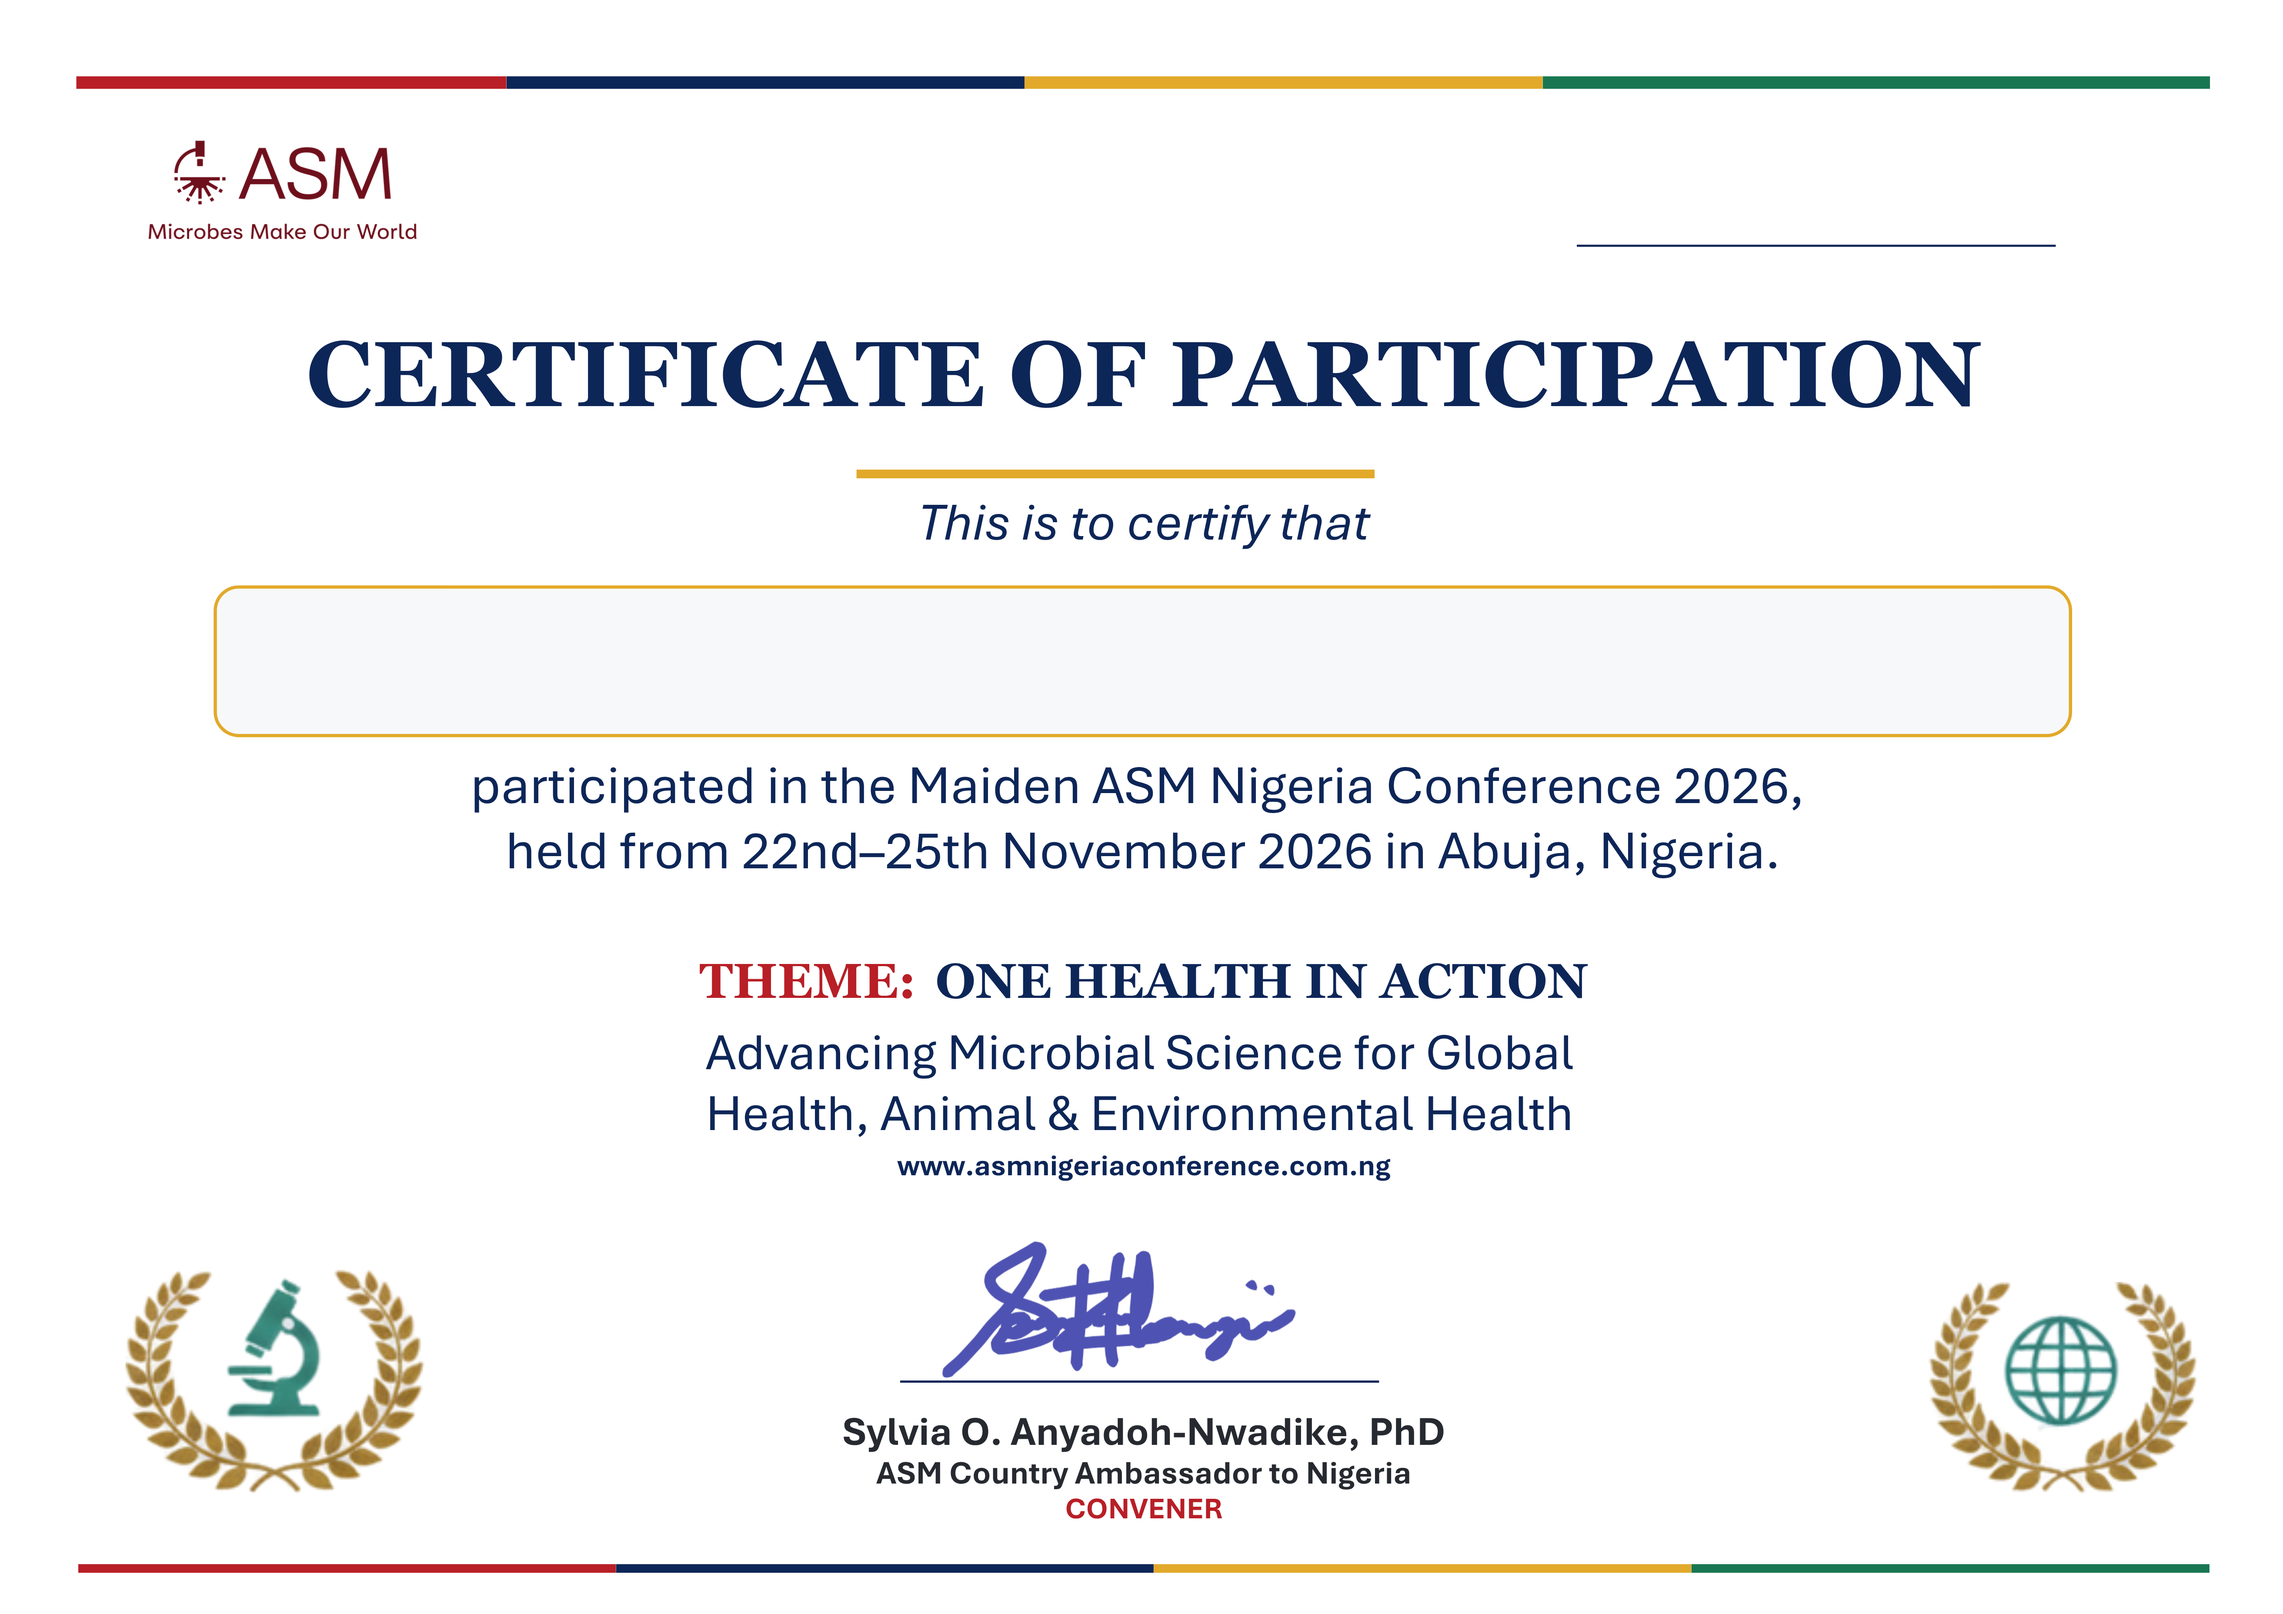
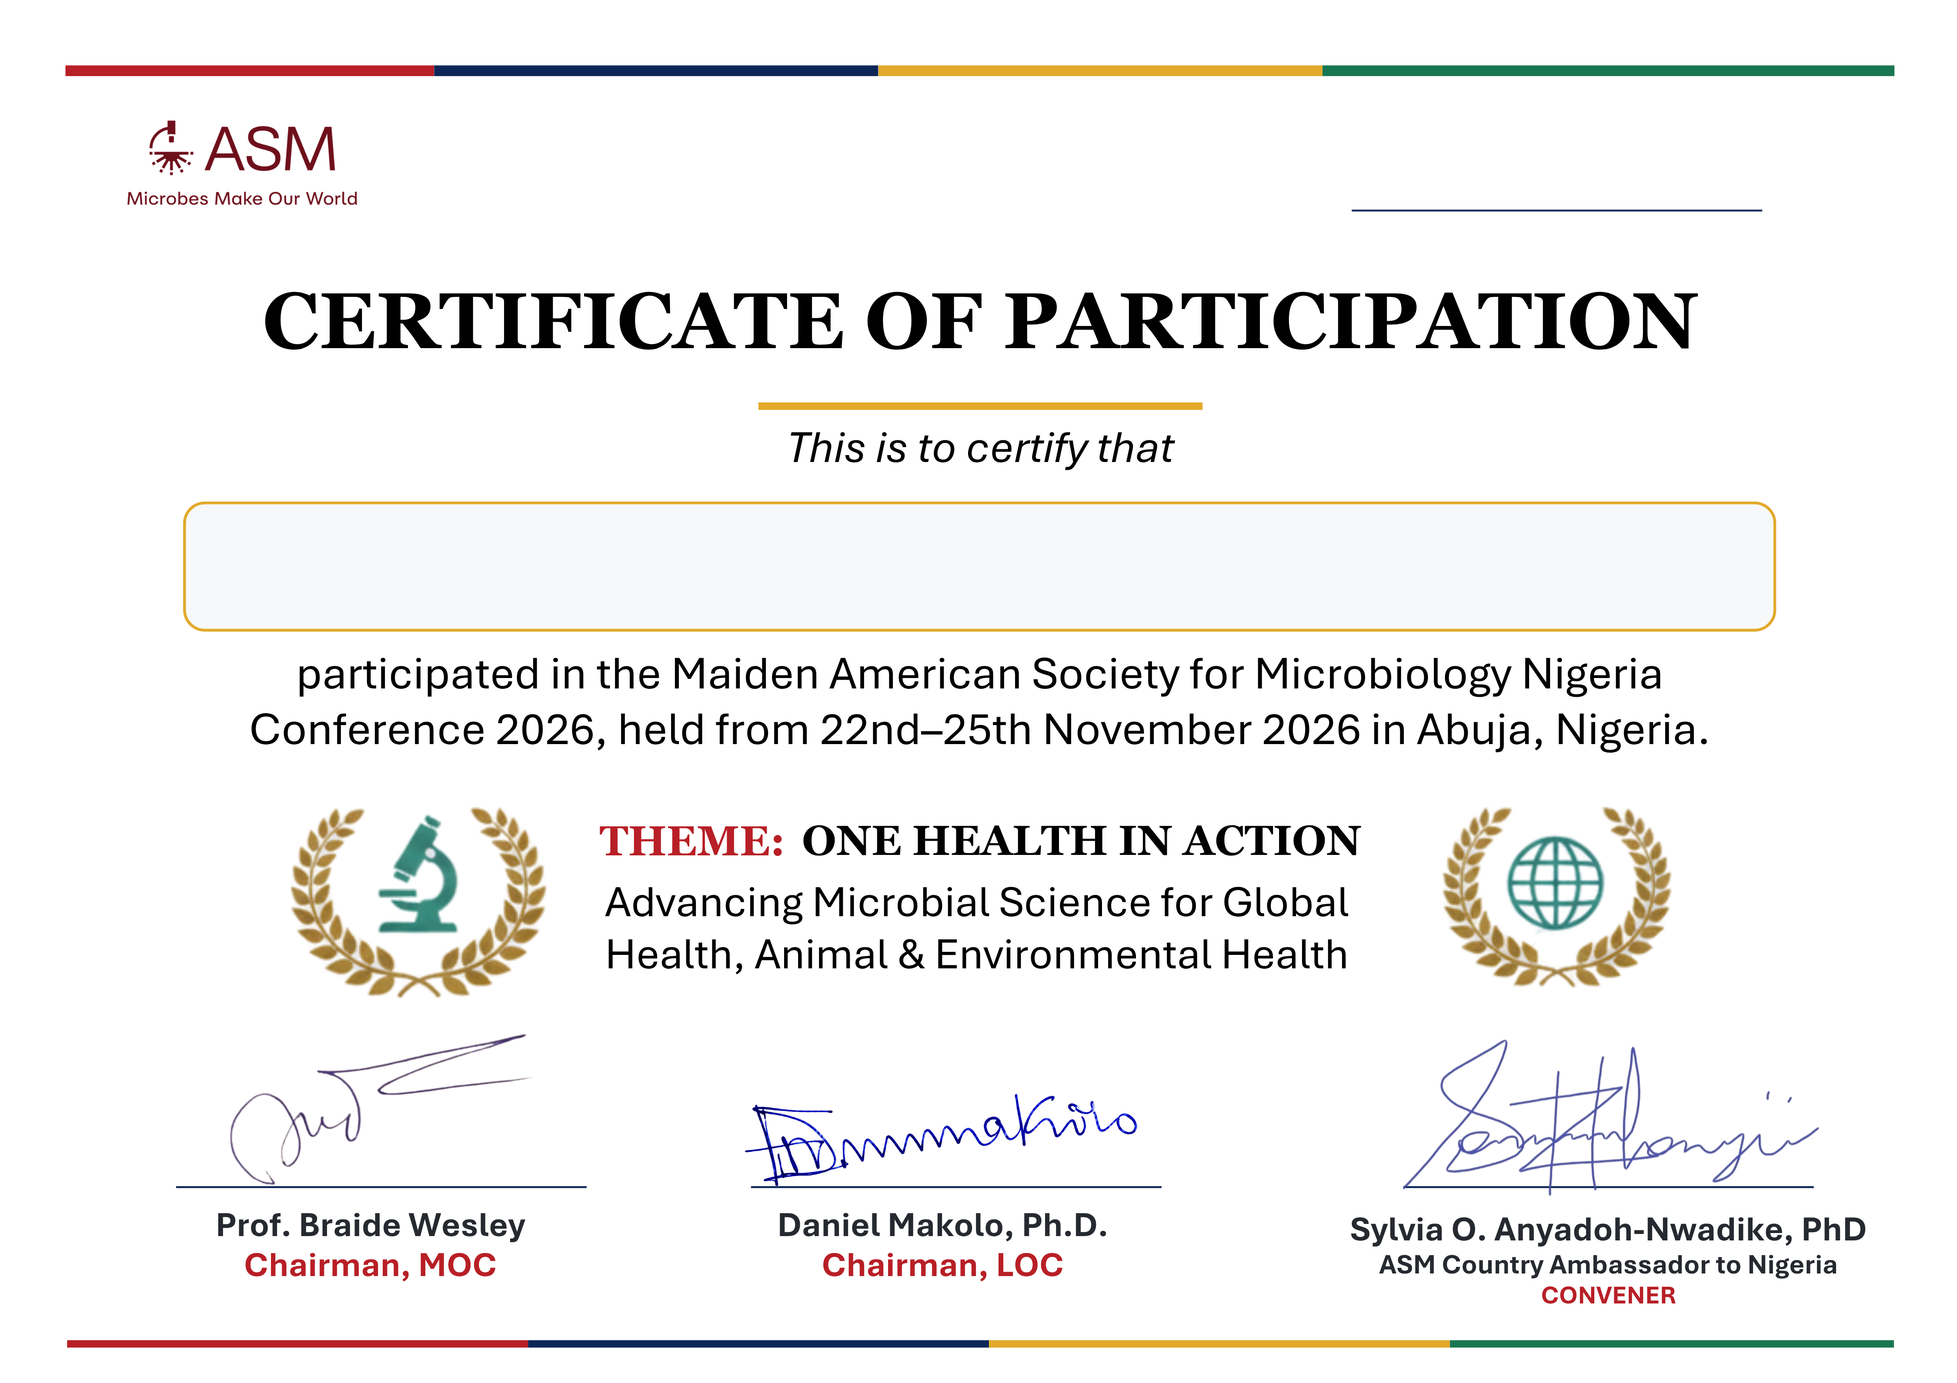
Replace certificate templates with fully-signed versions
The old presentation certificate had two of its three signature lines
blank -- Prof. Braide Wesley and Daniel Makolo were named but never
actually signed, only Sylvia Anyadoh-Nwadike's line had real ink. The
new templates supplied 2026-09-11 have all three properly signed on
both certificates.

Recalibrated every overlay box (name, title, presentation-type label,
certificate-number line) by programmatically flood-filling each
template's actual fillable-box fill color and detecting the red
"Presentation Type" label's pixel bounds, then converting to PDF
points at this page's scale -- not eyeballed. Necessary since the
participation template's canvas changed size (5250x3712 -> 4500x3182)
and the presentation template's title-box shifted position. Also
simplified the presentation-type overlay: the new template doesn't
bake in a bracketed placeholder, so the white-rectangle-cover step
that used to hide it is gone -- the value just draws directly after
the label now.

diff --git a/lib/certificate.ts b/lib/certificate.ts
@@ -5,13 +5,14 @@ import path from "node:path"
 
 import { PDFDocument, StandardFonts, rgb, type PDFFont, type PDFPage } from "pdf-lib"
 
-// Both templates are ~1.4142:1 (Canva exports at 5250x3712 and 4500x3182
-// respectively), which is almost exactly the A4 ratio -- rendered onto a
-// real A4-landscape PDF page so they print at correct physical size. Box
-// coordinates below were calibrated directly against each template image
-// (drew a debug rectangle, compared against the actual gold-bordered boxes
-// and blank lines, adjusted until they matched) rather than eyeballed from
-// the pixel grid alone.
+// Both templates supplied 2026-09-11 (replacing the earlier ones, which
+// had the presentation certificate's Braide Wesley/Makolo signature lines
+// blank) are now the same 4500x3182 -- ~1.4142:1, almost exactly the A4
+// ratio -- rendered onto a real A4-landscape PDF page so they print at
+// correct physical size. Box coordinates below were calibrated by flood-
+// filling each template's actual fillable-box fill color (~rgb(247,248,250))
+// and the red "Presentation Type" label's pixel bounds programmatically,
+// then converting px -> pt at this page's scale, rather than eyeballed.
 const PAGE_WIDTH = 841.89
 const PAGE_HEIGHT = 595.28
 
@@ -22,13 +23,16 @@ const ASM_RED = rgb(0.8, 0.13, 0.16)
 // { left, top, width, height } in PDF points, `top` measured from the top
 // of the page (converted to PDF's bottom-origin coordinate system at draw
 // time).
-const PARTICIPATION_NAME_BOX = { left: 80.8, top: 216.8, width: 681.2, height: 54.7 }
-const PARTICIPATION_NUMBER_LINE = { left: 581.0, top: 82.1, width: 181.0, height: 16.8 }
+const PARTICIPATION_NAME_BOX = { left: 80.1, top: 217.2, width: 682.9, height: 53.3 }
+const PARTICIPATION_NUMBER_LINE = { left: 581.6, top: 73.4, width: 176.6, height: 16.8 }
 
-const PRESENTATION_NAME_BOX = { left: 159.1, top: 181.9, width: 525.0, height: 40.0 }
-const PRESENTATION_TITLE_BOX = { left: 134.7, top: 254.7, width: 557.7, height: 46.3 }
-const PRESENTATION_TYPE_VALUE = { left: 327.5, top: 333.8, width: 325.0, height: 14.7 }
-const PRESENTATION_NUMBER_LINE = { left: 572.5, top: 70.7, width: 176.8, height: 14.7 }
+const PRESENTATION_NAME_BOX = { left: 160.7, top: 182.2, width: 522.4, height: 40.4 }
+const PRESENTATION_TITLE_BOX = { left: 88.5, top: 254.6, width: 641.0, height: 47.1 }
+// Bounds of the baked-in "Presentation Type" label itself (no colon, no
+// placeholder value baked in this template) -- the real value is drawn
+// starting just past its right edge, same baseline.
+const PRESENTATION_TYPE_LABEL = { left: 340.7, top: 334.1, width: 137.0, height: 14.2 }
+const PRESENTATION_NUMBER_LINE = { left: 574.1, top: 58.6, width: 176.6, height: 14.7 }
 
 async function loadTemplate(pdfDoc: PDFDocument, filename: string) {
   const templatePath = path.join(process.cwd(), "public/certificates", filename)
@@ -153,23 +157,14 @@ export async function generatePresentationCertificate(params: {
     color: INK_BLUE,
   })
 
-  // The template's placeholder text ("[Oral Presentation / Poster
-  // Presentation]") is baked into the background image -- cover it (and
-  // the static colon right before it, since the two can't be cleanly
-  // separated at this resolution) with a white rectangle, then draw the
-  // real single value with our own leading colon, in the same red/bold
-  // style the static "Presentation Type" label uses.
-  page.drawRectangle({
-    x: PRESENTATION_TYPE_VALUE.left - 2,
-    y: PAGE_HEIGHT - PRESENTATION_TYPE_VALUE.top - PRESENTATION_TYPE_VALUE.height - 4,
-    width: PRESENTATION_TYPE_VALUE.width + 6,
-    height: PRESENTATION_TYPE_VALUE.height + 10,
-    color: rgb(1, 1, 1),
-  })
+  // This template bakes in only the bare "Presentation Type" label (no
+  // colon, no placeholder value) -- draw the real value right after it,
+  // same baseline, in the same red/bold style the label itself uses. No
+  // white-rectangle cover needed this time; there's nothing there to hide.
   const typeSize = 15
-  const typeBaselineY = PAGE_HEIGHT - PRESENTATION_TYPE_VALUE.top - PRESENTATION_TYPE_VALUE.height + 3
+  const typeBaselineY = PAGE_HEIGHT - PRESENTATION_TYPE_LABEL.top - PRESENTATION_TYPE_LABEL.height + 3
   page.drawText(`: ${params.presentationType}`, {
-    x: PRESENTATION_TYPE_VALUE.left - 2,
+    x: PRESENTATION_TYPE_LABEL.left + PRESENTATION_TYPE_LABEL.width,
     y: typeBaselineY,
     size: typeSize,
     font: typeFont,
